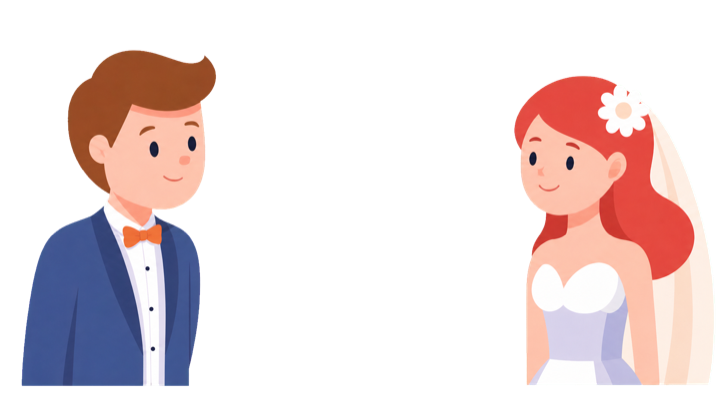
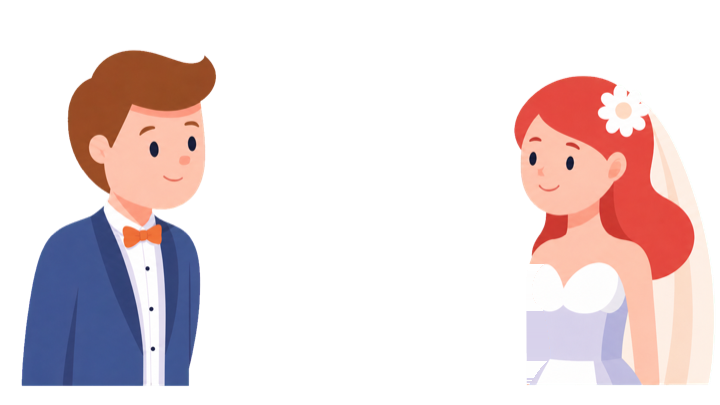
식사 애니메이션과 갤러리 이미지 개선

Changed region(s): [[0.7333, 0.6519, 0.7639, 0.9481]]

diff --git a/index.html b/index.html
@@ -9,7 +9,7 @@
 <title>민구 ♥ 미진 — 2026. 10. 03. 결혼합니다</title>
 <link rel="preload" href="fonts/allura-latin.woff2" as="font" type="font/woff2" crossorigin>
 <link rel="preload" href="fonts/cormorant-garamond-latin.woff2" as="font" type="font/woff2" crossorigin>
-<link rel="preload" href="images/couple-base.png" as="image">
+<link rel="preload" href="images/couple-eating-sprite.webp" as="image" type="image/webp">
 <style>
 @font-face{
   font-family:"Invitation Script";
@@ -276,7 +276,7 @@ a{ color:var(--accent); text-decoration:none; }
 
 /* rice feast hidden inside the moon jar */
 .moon-feast{
-  --eat-cycle:2.45s;
+  --eat-cycle:2.6s;
   position:absolute; z-index:1; inset:0; opacity:0; pointer-events:none;
   transform:translateY(7%) scale(.94);
   transition:opacity .42s ease .2s, transform .65s cubic-bezier(.22,.9,.24,1) .15s;
@@ -299,79 +299,30 @@ a{ color:var(--accent); text-decoration:none; }
 .feast-rice-grain{
   fill:none; stroke:#cfc5af; stroke-width:1.4; stroke-linecap:round; opacity:.72;
 }
-.feast-couple-base{
+.feast-couple{
   position:absolute; z-index:2; left:-5%; top:5%; width:110%; height:55%;
-  background:url("images/couple-base.png") center top / contain no-repeat;
+  background:url("images/couple-eating-sprite.webp") center 0 / auto 1200% no-repeat;
+  pointer-events:none;
 }
-/* One fixed character bitmap plus independently rotating SVG limbs keeps the
-   face and clothes perfectly stable while the eating motion stays fluid. */
-.feast-eating-motion{
-  position:absolute; z-index:3; inset:0; width:100%; height:100%;
-  overflow:visible; pointer-events:none;
+/* The first bite is frame 4 and the second is frame 10. A 423ms lead-in
+   aligns them with the rice timers at 1.29s and 2.59s. Three loops make the
+   six scheduled bites, then the characters rest until the jar closes. */
+.moon.is-feast .feast-couple{
+  animation:feastCoupleSprite var(--eat-cycle) step-end .423s 3 both;
 }
-.feast-eater.groom,.feast-mouth-open.groom{
-  --eat-delay:.15s;
-  --upper-dip:3deg; --upper-lift:-18deg; --upper-feed:-74deg;
-  --upper-back:-56deg; --upper-half:-25deg;
-  --fore-dip:8deg; --fore-lift:-14deg; --fore-feed:-88deg;
-  --fore-back:-66deg; --fore-half:-30deg;
-}
-.feast-eater.bride,.feast-mouth-open.bride{
-  --eat-delay:1.05s;
-  --upper-dip:-3deg; --upper-lift:18deg; --upper-feed:74deg;
-  --upper-back:56deg; --upper-half:25deg;
-  --fore-dip:-8deg; --fore-lift:14deg; --fore-feed:93deg;
-  --fore-back:68deg; --fore-half:31deg;
-}
-.feast-upper-motion,.feast-forearm-motion,.feast-mouth-open{
-  transform-box:view-box; transform-origin:0 0;
-}
-.feast-spoon-rice,.feast-mouth-open{ opacity:0; }
-.moon.is-feast .feast-upper-motion{
-  animation:feastUpperMotion var(--eat-cycle) cubic-bezier(.4,0,.2,1) var(--eat-delay) infinite both;
-}
-.moon.is-feast .feast-forearm-motion{
-  animation:feastForearmMotion var(--eat-cycle) cubic-bezier(.4,0,.2,1) var(--eat-delay) infinite both;
-}
-.moon.is-feast .feast-spoon-rice{
-  animation:feastSpoonRice var(--eat-cycle) linear var(--eat-delay) infinite both;
-}
-.moon.is-feast .feast-mouth-open{
-  animation:feastMouthMotion var(--eat-cycle) linear var(--eat-delay) infinite both;
-}
-@keyframes feastUpperMotion{
-  0%,100%{ transform:rotate(0); }
-  7%{ transform:rotate(var(--upper-dip)); }
-  14%{ transform:rotate(0); }
-  22%{ transform:rotate(var(--upper-lift)); }
-  36%,44.9%{ transform:rotate(var(--upper-feed)); }
-  53%{ transform:rotate(var(--upper-back)); }
-  68%{ transform:rotate(var(--upper-half)); }
-  82%{ transform:rotate(0); }
-}
-@keyframes feastForearmMotion{
-  0%,100%{ transform:rotate(0); }
-  7%{ transform:rotate(var(--fore-dip)); }
-  14%{ transform:rotate(0); }
-  22%{ transform:rotate(var(--fore-lift)); }
-  36%,44.9%{ transform:rotate(var(--fore-feed)); }
-  53%{ transform:rotate(var(--fore-back)); }
-  68%{ transform:rotate(var(--fore-half)); }
-  82%{ transform:rotate(0); }
-}
-@keyframes feastSpoonRice{
-  0%,9%{ opacity:0; }
-  14%,43.8%{ opacity:1; }
-  44.9%,100%{ opacity:0; }
-}
-@keyframes feastMouthMotion{
-  0%,30%{ opacity:0; transform:scale(.92,.12); }
-  35%,44.9%{ opacity:1; transform:scale(1,1); }
-  49%,52%{ opacity:0; transform:scale(.92,.12); }
-  55%{ opacity:.9; transform:scale(.96,.52); }
-  58%,62%{ opacity:0; transform:scale(.92,.12); }
-  65%{ opacity:.86; transform:scale(.95,.46); }
-  69%,100%{ opacity:0; transform:scale(.92,.12); }
+@keyframes feastCoupleSprite{
+  0%{ background-position:center 0; }
+  8.333333%{ background-position:center 9.090909%; }
+  16.666667%{ background-position:center 18.181818%; }
+  25%{ background-position:center 27.272727%; }
+  33.333333%{ background-position:center 36.363636%; }
+  41.666667%{ background-position:center 45.454545%; }
+  50%{ background-position:center 54.545455%; }
+  58.333333%{ background-position:center 63.636364%; }
+  66.666667%{ background-position:center 72.727273%; }
+  75%{ background-position:center 81.818182%; }
+  83.333333%{ background-position:center 90.909091%; }
+  91.666667%,100%{ background-position:center 100%; }
 }
 
 /* staged text reveals */
@@ -547,7 +498,9 @@ main{ padding-bottom:20px; }
 .cal-note{
   margin-top:18px; padding-top:18px; border-top:1px solid var(--line-soft);
   text-align:center; font-size:13px; color:var(--text-soft); letter-spacing:.06em;
+  line-height:1.8;
 }
+.cal-note-line{ display:block; white-space:nowrap; }
 
 .count{ margin-top:26px; }
 .count-grid{ display:flex; justify-content:center; gap:10px; }
@@ -791,6 +744,7 @@ footer{
   font-family:AppleMyungjo,"Nanum Myeongjo","Noto Serif KR",Batang,serif;
   font-size:13.5px; line-height:2.05; color:rgba(255,255,255,.9);
 }
+.foot-line-row{ display:block; white-space:nowrap; }
 .foot-rule{
   width:1px; height:38px; margin:25px auto 22px;
   background:rgba(255,255,255,.5);
@@ -886,10 +840,10 @@ footer .pill:focus-visible{ outline-color:#fff; }
   .reveal{ opacity:1; transform:none; }
   .scroll-cue i{ animation:none; }
   .foot-moon.is-pacman{ animation:none; }
-  .moon.is-feast .feast-upper-motion,
-  .moon.is-feast .feast-forearm-motion,
-  .moon.is-feast .feast-spoon-rice,
-  .moon.is-feast .feast-mouth-open{ animation:none; }
+  .moon.is-feast .feast-couple{
+    animation:none;
+    background-position:center 0;
+  }
 }
 </style>
 </head>
@@ -942,60 +896,7 @@ footer .pill:focus-visible{ outline-color:#fff; }
           </g>
         </svg>
 
-        <i class="feast-couple-base"></i>
-        <svg class="feast-eating-motion" viewBox="0 0 218 218" aria-hidden="true" focusable="false">
-          <defs>
-            <linearGradient id="feastSpoonMetal" x1="0" y1="0" x2="0" y2="1">
-              <stop offset="0" stop-color="#fff"/>
-              <stop offset=".48" stop-color="#c9d0d1"/>
-              <stop offset="1" stop-color="#929da0"/>
-            </linearGradient>
-          </defs>
-
-          <g class="feast-eater groom" transform="translate(60 80)">
-            <g class="feast-upper-motion">
-              <path d="M0 0C5 4 9 12 13 18" fill="none" stroke="#3c568b" stroke-width="12" stroke-linecap="round"/>
-              <g transform="translate(13 18)">
-                <g class="feast-forearm-motion">
-                  <path d="M18 0L27 0" fill="none" stroke="#a7b1b3" stroke-width="1.5" stroke-linecap="round"/>
-                  <ellipse cx="29" cy="0" rx="4.1" ry="2.5" fill="url(#feastSpoonMetal)" stroke="#9ca7a9" stroke-width=".55"/>
-                  <g class="feast-spoon-rice">
-                    <ellipse cx="29" cy="-1.5" rx="3.2" ry="2.1" fill="#fffdf6"/>
-                    <path d="M27.4-1.5q1.4-1.1 2.7 0" fill="none" stroke="#ddd5c4" stroke-width=".45" stroke-linecap="round"/>
-                  </g>
-                  <path d="M0 0C5 0 10-2 15-1" fill="none" stroke="#3c568b" stroke-width="9" stroke-linecap="round"/>
-                  <path d="M12-2L16-1" fill="none" stroke="#fffaf1" stroke-width="7" stroke-linecap="round"/>
-                  <ellipse cx="17.5" cy="-.5" rx="4.5" ry="3.7" fill="#fec4ae"/>
-                </g>
-              </g>
-            </g>
-          </g>
-
-          <g class="feast-eater bride" transform="translate(160 80)">
-            <g class="feast-upper-motion">
-              <path d="M0 0C-5 4-9 12-13 18" fill="none" stroke="#fdc3ad" stroke-width="9" stroke-linecap="round"/>
-              <g transform="translate(-13 18)">
-                <g class="feast-forearm-motion">
-                  <path d="M-17 0L-25 0" fill="none" stroke="#a7b1b3" stroke-width="1.5" stroke-linecap="round"/>
-                  <ellipse cx="-27" cy="0" rx="4.1" ry="2.5" fill="url(#feastSpoonMetal)" stroke="#9ca7a9" stroke-width=".55"/>
-                  <g class="feast-spoon-rice">
-                    <ellipse cx="-27" cy="-1.5" rx="3.2" ry="2.1" fill="#fffdf6"/>
-                    <path d="M-28.6-1.5q1.4-1.1 2.7 0" fill="none" stroke="#ddd5c4" stroke-width=".45" stroke-linecap="round"/>
-                  </g>
-                  <path d="M0 0C-5 0-10-2-14-1" fill="none" stroke="#fdc3ad" stroke-width="8.5" stroke-linecap="round"/>
-                  <ellipse cx="-16.5" cy="-.5" rx="4.4" ry="3.7" fill="#fdc3ad"/>
-                </g>
-              </g>
-            </g>
-          </g>
-
-          <g transform="translate(54 64)">
-            <g class="feast-mouth-open groom"><ellipse cx="0" cy=".2" rx="2.25" ry="1.75" fill="#8d403d"/></g>
-          </g>
-          <g transform="translate(165 67)">
-            <g class="feast-mouth-open bride"><ellipse cx="0" cy=".2" rx="2.25" ry="1.75" fill="#8d403d"/></g>
-          </g>
-        </svg>
+        <i class="feast-couple"></i>
       </span>
       <div class="moon-half top"></div>
       <div class="moon-half bottom"></div>
@@ -1089,7 +990,7 @@ footer .pill:focus-visible{ outline-color:#fff; }
           </span>
           <div>
             <h3>마침내 가득 찬 원 <span class="when latin">2026. 10.</span></h3>
-            <p>이제 두 사람이 온전한 하나의 원을 이룹니다. 그 시작의 곁에 당신이 있어 주세요.</p>
+            <p>이제 두 사람이 온전한 하나의 원을 이룹니다. 그 찬란한 시작의 순간을 당신과 함께하고 싶습니다.</p>
           </div>
         </div>
       </div>
@@ -1107,7 +1008,10 @@ footer .pill:focus-visible{ outline-color:#fff; }
         <p class="cal-month latin" id="calMonth">10</p>
         <p class="cal-month-sub latin" id="calMonthSub">October 2026</p>
         <div class="cal-grid" id="calGrid" role="img"></div>
-        <p class="cal-note" data-fill="ceremonyNote">낮 12시 10분 예식 · 예식 후 피로연이 이어집니다</p>
+        <p class="cal-note">
+          <span class="cal-note-line" data-fill="ceremonyTime">낮 12시 10분 예식</span>
+          <span class="cal-note-line" data-fill="ceremonyReception">예식 후 피로연이 이어집니다</span>
+        </p>
       </div>
       <div class="count reveal">
         <div class="count-grid" id="countGrid" aria-hidden="true">
@@ -1212,13 +1116,15 @@ footer .pill:focus-visible{ outline-color:#fff; }
       <p class="foot-eyebrow latin reveal">A lifetime, together</p>
       <button class="foot-moon reveal" id="footMoon" type="button" aria-label="달을 팩맨으로 바꿔 글자와 버튼 먹기"></button>
       <p class="foot-line reveal">
-        저희 두 사람의 이야기를 끝까지 읽어 주셔서 감사합니다.<br>
-        보름달처럼 가득 찬 마음으로 그날 뵙겠습니다.
+        <span class="foot-line-row">저희 두 사람의 이야기를 끝까지</span>
+        <span class="foot-line-row">읽어 주셔서 감사합니다.</span>
+        <span class="foot-line-row">보름달처럼 가득 찬 마음으로</span>
+        <span class="foot-line-row">그날 뵙겠습니다.</span>
       </p>
       <div class="foot-rule reveal" aria-hidden="true"></div>
       <p class="foot-sign latin reveal" id="footSign"><span>Mingu &amp; Mijin</span><span>October 3rd, 2026</span></p>
       <div class="share-row reveal">
-        <button class="pill" id="shareBtn">카카오톡 공유</button>
+        <button class="pill" id="shareBtn">공유하기</button>
         <button class="pill" id="copyLinkBtn">링크 복사</button>
       </div>
     </div>
@@ -1254,7 +1160,8 @@ const CONFIG = {
   // 예식 일시 (ISO 8601, 한국 시간)
   weddingISO: '2026-10-03T12:10:00+09:00',
   dateLine: '2026년 10월 3일 토요일 낮 12시 10분',
-  ceremonyNote: '낮 12시 10분 예식 · 예식 후 피로연이 이어집니다',
+  ceremonyTime: '낮 12시 10분 예식',
+  ceremonyReception: '예식 후 피로연이 이어집니다',
 
   venueName: '파티움하우스 수원',
   venueHall: '파티움홀 (3층)',
@@ -1293,7 +1200,7 @@ const CONFIG = {
     { src: 'images/gallery/04.jpg', alt: '네온 조명이 켜진 서재에서 선글라스를 끼고 장난스럽게 선 신랑 신부' },
     { src: 'images/gallery/05.jpg', alt: '샹들리에가 있는 밝은 방에서 드레스를 펼치고 앉은 신부와 신랑' },
     { src: 'images/gallery/06.jpg', alt: '기와지붕 한옥 창가에서 장난스러운 포즈를 취한 신랑 신부' },
-    { src: 'images/gallery/07.jpg', alt: '분수와 조각상이 있는 정원에서 분홍빛 드레스를 입은 신부와 신랑' },
+    { src: 'images/gallery/07.jpg', alt: '웨딩 사진으로 꾸민 벽 앞 의자에 앉아 잡지를 든 신랑 신부' },
     { src: 'images/gallery/08.jpg', alt: '폴라로이드 사진으로 꾸민 벽 앞 소파에 앉은 신랑 신부' },
   ],
 };
@@ -1497,14 +1404,15 @@ window.addEventListener('load', () => {
       ? '밥을 먹는 신랑 신부 캐릭터 닫기'
       : '달항아리 열어 신랑 신부의 밥 먹는 모습 보기');
     if (open){
+      /* Sprite frames 4/10 plus the 423ms lead-in land on these bite times. */
       const bites = [
-        [1250,.9], [2150,.8], [3700,.7],
-        [4600,.61], [6150,.53], [7050,.45],
+        [1290,.92], [2590,.84], [3890,.75],
+        [5190,.66], [6490,.57], [7790,.48],
       ];
       biteTimers = bites.map(([delay, level]) => setTimeout(() => {
         bowl.style.setProperty('--rice-level', String(level));
       }, delay));
-      closeTimer = setTimeout(() => setFeast(false), 8500);
+      closeTimer = setTimeout(() => setFeast(false), 9300);
     }else{
       riceResetTimer = setTimeout(() => bowl.style.setProperty('--rice-level', '1'), 500);
     }